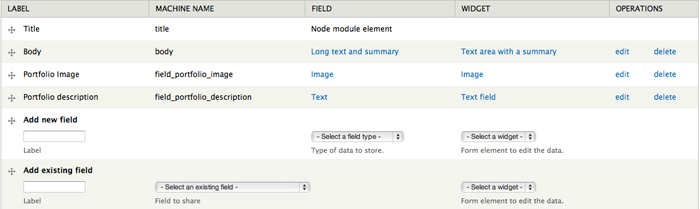
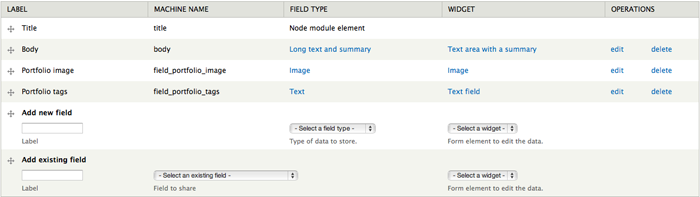
-Working on the portfolio docs

diff --git a/documentation/index.html b/documentation/index.html
@@ -16,7 +16,7 @@
 <div id="wrapper">
 <h2>Overview</h2>
 <p>A Metro-inspired Drupal 7 theme powered by <a href="http://foundation.zurb.com/" target="_blank">Zurb Foundation 3</a>. Blocks features a fully responsive design, easy to use theme settings and follows Drupal coding standards. For theme support that cannot be found in this documentation, please visit our <a href="http://refaktor.co/support"> support forum</a>. Once you have registered please contact us via the <a href="http://themeforest.net/user/refaktor" target="_blank">ThemeForest author page</a> with your forum username so you can be granted posting rights.</p>
-<p>Updated: 11/08/12<br>Author: <a href="http://refaktor.co" target="_blank">Refaktor</a><br>Email: <a href="mailto:refaktor.co@gmail.com">refaktor.co@gmail.com</a><br>Docs powered by: <a href="https://github.com/jgallen23/toc" target="_blank">TOC</a></p>
+<p>Updated: 12/14/12<br>Author: <a href="http://refaktor.co" target="_blank">Refaktor</a><br>Email: <a href="mailto:refaktor.co@gmail.com">refaktor.co@gmail.com</a><br>Docs powered by: <a href="https://github.com/jgallen23/toc" target="_blank">TOC</a></p>
 <h2>Installation</h2>
 <p>There are several ways Blocks can be installed. For existing sites that already have content, the first method will only involve the installation and activation of the theme. The second option includes a full Drupal 7 install with the same SQL database file used to create the theme demo. Please choose which installation method works best for you and follow the instructions.
 <h3>Theme Only</h3>
@@ -112,43 +112,15 @@ This is a full-width portion on the front page designed to showcase site service
 <pre>&lt;div class=&quot;ad_block&quot;&gt;
   &lt;a href=&quot;#&quot;&gt;125 by 125&lt;/a&gt;&lt;a href=&quot;#&quot;&gt;125 by 125&lt;/a&gt;&lt;a href=&quot;#&quot;&gt;125 by 125&lt;/a&gt;&lt;a href=&quot;#&quot;&gt;125 by 125&lt;/a&gt;
 &lt;/div&gt;</pre>
-<h4>Pricing</h4>
-<p>Blocks supports 2, 3 and 5 columns of pricing tables. Just change the span class to span5 for 2 columns, span3 for 3 columns and span2 for 5 columns.</p>
-<pre>&lt;div class=&quot;span5 pricehover&quot;&gt;
-		        &lt;h3&gt;Starter&lt;/h3&gt;
-		        &lt;div class=&quot;price&quot;&gt;&lt;h2&gt;$50.00&lt;/h2&gt;&lt;/div&gt;
-		          &lt;ul class=&quot;unstyled pricing &quot;&gt;
-                    &lt;li&gt;2GB Space&lt;/li&gt;
-		            &lt;li&gt;500MB Data&lt;/li&gt;
-		            &lt;li&gt;1 User&lt;/li&gt;
-		            &lt;li&gt;1 Email&lt;/li&gt;
-		          &lt;/ul&gt;
-		        &lt;button class=&quot;btn &quot; &gt;Buy Now&lt;/button&gt;
-		        &lt;br&gt;&lt;br&gt;
-	          &lt;/div&gt;
-		
-		      &lt;div class=&quot;span5 pricehover &quot;&gt;
-		      &lt;h3&gt;Deluxe&lt;/h3&gt;
-		        &lt;div class=&quot;price&quot;&gt;&lt;h2&gt;$100.00&lt;/h2&gt;&lt;/div&gt;
-		          &lt;ul class=&quot;unstyled pricing&quot;&gt;
-                    &lt;li&gt;5GB Space&lt;/li&gt;
-                    &lt;li&gt;2GB Data&lt;/li&gt;
-		            &lt;li&gt;5 Users&lt;/li&gt;
-		            &lt;li&gt;5 Emails&lt;/li&gt;
-		          &lt;/ul&gt;
-		        &lt;button class=&quot;btn &quot; &gt;Buy Now&lt;/button&gt;
-	            &lt;br&gt;&lt;br&gt;
-	          &lt;/div&gt;</pre>
-
 <h4>Popular Tags</h4>
 Use the <a href="http://drupal.org/project/views" target="_blank">Views module</a> to create a block view titled "Popular Tags" that is an HTML list of the taxonomy term "Tags". You can set the number limit to whatever you like, just make sure to name it "Popular Tags" and to make it an HTML list.
 <h2>Portfolio</h2>
 <p>This portion of the docs will explain how to set up the portfolio page seen on the theme demo. The only module you will need is the <a href="http://drupal.org/project/views" target="_blank">Views module</a> which is needed to create the list of portfolio items.</p>
 <h3>Custom content type</h3>
 <p>The first step is to create a new content type called <b>Portfolio Item</b>. To create a new content type visit /admin/structure/types and click "add content type". Title the new content type "Portfolio Item" (this is important), enter a brief description and save.</p>
-<p> Next you have to add two custom fields to this content type for the portfolio image and description tags. Press the "manage fields" link under Portfolio Item in the content type overview page and use the "Add new field" option. Enter "Portfolio image" in the label field and select "Image" as the field type. Press save when you are done, and you will now have an image uploader when creating a Portfolio item.  Do the same thing again, only this time use "Portfolio description" as the label and "Text" as the field type. This field lets you add short description words like "design" and "branding" to your portfolio items which show up when you hover over the images on the portfolio page. Here is what the fields for the "Portfolio Items" content type should look like when you are done:</p>
+<p> Next you have to add two custom fields to this content type for the portfolio image and description tags. Press the "manage fields" link under Portfolio Item in the content type overview page and use the "Add new field" option. Enter "Portfolio image" in the label field and select "Image" as the field type. Press save when you are done, and you will now have an image uploader when creating a Portfolio item.  Do the same thing again, only this time use "Portfolio tags" as the label and "Text" as the field type. This field lets you add short tag words like "design" and "branding" to your portfolio items which are used to group sets of items together for use with the filter buttons seen on the demo. Here is what the fields for the "Portfolio Items" content type should look like when you are done:</p>
 <img src="images/portfolio-fields.png">
-<p>Creating a portfolio item is as simple as creating any other content type. Visit /admin/content, click "Add content" and select the new Portfolio Item type you just created. Enter the title, text, upload your image and add your descriptive words and press save.</p>
+<p>Creating a portfolio item is as simple as creating any other content type. Visit /admin/content, click "Add content" and select the new Portfolio Item type you just created. Enter the title, text, upload your image and add your tag or tags (only put a space between each tag, no commas) and press save.</p>
 <h3>Portfolio View</h3>
 <p>To create a Portfolio page to display all of your portfolio items as seen on our demo, you will need to use the <a href="http://drupal.org/project/views" target="_blank">Views module</a>. Once you have installed the module, visit /admin/structure/views and click "Add new view". Enter "Portfolio" into the view name text field, select Portfolio Item as the content type to pull from, make sure "create page" is checked off to make this a page view and tell it to pull an unformated list of full posts. You should also have it create a Menu link, but you can also do this later using the Menu options. If you would like to display three items per row instead of the default two, follow the same directions above but enter "Portfolio Three" into the view name text field (this will tell Drupal to call the three item per row Portfolio template). Below is what your view should look like when you're done:
 </p>
